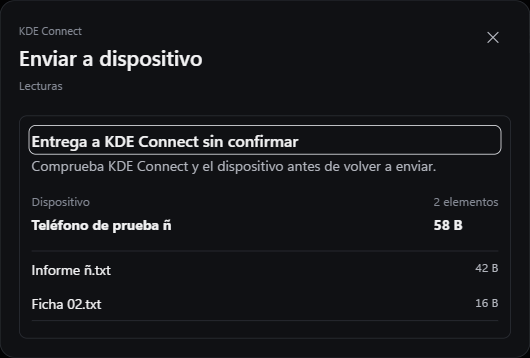
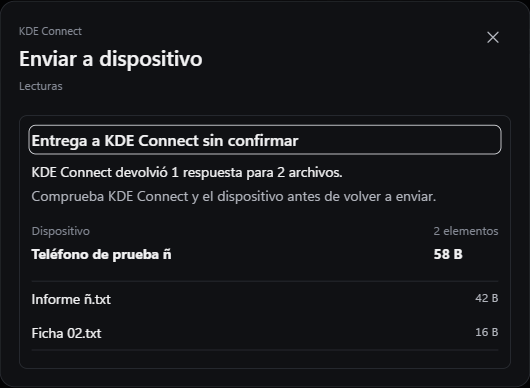
Explain KDE Connect handoff results

diff --git a/src/device-share-ui.ts b/src/device-share-ui.ts
@@ -8,7 +8,8 @@ type Payload = { kind: "files"; ids: string[] } | { kind: "link"; url: string } 
 interface Device { id: string; name: string }
 interface Status { state: "ready" | "missing" | "offline" | "incompatible" | "unsupported"; devices: Device[]; share: boolean; shareText: boolean }
 interface Preview { token: string; device: Device; entries: { name: string; bytes: number }[]; total: number }
-type Receipt = "handedOff" | "unconfirmed";
+type UnconfirmedReason = { kind: "cliError" } | { kind: "noReply" } | { kind: "fileCount"; replies: number };
+type Receipt = { state: "handedOff" } | { state: "unconfirmed"; reason: UnconfirmedReason };
 type Review = Omit<Preview, "token">;
 interface Hooks {
   command<T>(name: string, args?: Record<string, unknown>): Promise<T>;
@@ -71,6 +72,23 @@ export function createDeviceShare(hooks: Hooks) {
     if (count) count.textContent = textCount(size);
   }
 
+  function receiptEvidence(receipt: Receipt, files: number): string {
+    if (receipt.state === "handedOff") return "";
+    switch (receipt.reason.kind) {
+      case "cliError":
+        return t("KDE Connect devolvió un error o un diagnóstico durante la entrega.", "KDE Connect returned an error or diagnostic during handoff.");
+      case "noReply":
+        return t("La respuesta de KDE Connect quedó vacía o no se pudo leer.", "The KDE Connect response was empty or unreadable.");
+      case "fileCount": {
+        const { replies } = receipt.reason;
+        return t(
+          `KDE Connect devolvió ${replies} ${replies === 1 ? "respuesta" : "respuestas"} para ${files} ${files === 1 ? "archivo" : "archivos"}.`,
+          `KDE Connect returned ${replies} ${replies === 1 ? "response" : "responses"} for ${files} ${files === 1 ? "file" : "files"}.`,
+        );
+      }
+    }
+  }
+
   function draw() {
     if (!dialog) return;
     const previous = document.activeElement instanceof HTMLElement ? document.activeElement.id : "";
@@ -92,10 +110,12 @@ export function createDeviceShare(hooks: Hooks) {
       : status?.state === "unsupported" ? t("La integración de nabnab está disponible en Windows.", "Nabnab’s integration is available on Windows.")
       : !devices.length && status ? t("Empareja un dispositivo desde KDE Connect y comprueba que esté accesible.", "Pair a device in KDE Connect and make sure it is reachable.") : "";
     const button = (id: string, caption: string, style = "quiet", disabled = false) => `<button type="button" id="share-${id}" class="button ${style}" data-share-action="${id}" ${disabled ? "disabled" : ""}>${h(caption)}</button>`;
+    const evidence = result ? receiptEvidence(result.receipt, result.review.entries.length) : "";
     dialog.innerHTML = `<header class="device-share-head"><div><p class="eyebrow">KDE Connect</p><h2 id="device-share-title">${t("Enviar a dispositivo", "Send to device")}</h2>${label ? `<p class="field-note">${h(label)}</p>` : ""}</div>
       <button type="button" id="share-close" class="icon-button" data-share-action="close" aria-label="${t("Cerrar", "Close")}" ${busy === "send" ? "disabled" : ""}>${icon("close")}</button></header>
-      ${result ? `<section class="device-share-result" aria-labelledby="share-result-status"><h3 id="share-result-status" tabindex="-1" aria-describedby="share-result-note">${result.receipt === "handedOff" ? t("Entregado a KDE Connect", "Handed off to KDE Connect") : t("Entrega a KDE Connect sin confirmar", "KDE Connect handoff unconfirmed")}</h3>
-        <p id="share-result-note">${result.receipt === "handedOff" ? t("Consulta KDE Connect para seguir la transferencia y confirmar la recepción.", "Check KDE Connect for transfer progress and receipt.") : t("Comprueba KDE Connect y el dispositivo antes de volver a enviar.", "Check KDE Connect and the device before sending again.")}</p>
+      ${result ? `<section class="device-share-result" aria-labelledby="share-result-status"><h3 id="share-result-status" tabindex="-1" aria-describedby="${evidence ? "share-result-evidence " : ""}share-result-note">${result.receipt.state === "handedOff" ? t("Entregado a KDE Connect", "Handed off to KDE Connect") : t("Entrega a KDE Connect sin confirmar", "KDE Connect handoff unconfirmed")}</h3>
+        ${evidence ? `<p id="share-result-evidence">${h(evidence)}</p>` : ""}
+        <p id="share-result-note">${result.receipt.state === "handedOff" ? t("Consulta KDE Connect para seguir la transferencia y confirmar la recepción.", "Check KDE Connect for transfer progress and receipt.") : t("Comprueba KDE Connect y el dispositivo antes de volver a enviar.", "Check KDE Connect and the device before sending again.")}</p>
         <div class="device-share-review">${reviewContent(result.review, mode === "files")}</div></section>` : preview ? `<section class="device-share-review">
         ${reviewContent(preview, true)}
         <div class="device-share-footer">${button("back", t("Editar envío", "Edit share"), "quiet", Boolean(busy))}${button("send", busy ? t("Entregando a KDE Connect…", "Handing off to KDE Connect…") : t("Confirmar envío", "Confirm share"), "primary", Boolean(busy))}</div></section>` : `<section class="device-share-fields">

diff --git a/src/device-share.css b/src/device-share.css
@@ -29,6 +29,7 @@
 .device-share-result h3 { margin: 0; border-radius: 4px; font-size: 16px; }
 .device-share-result h3:focus-visible { outline-offset: 3px; }
 .device-share-result p { color: var(--muted); }
+.device-share-result #share-result-evidence { margin-top: 9px; color: var(--text); }
 .device-share-result .device-share-review { margin-top: 14px; }
 .device-share-error { padding: 8px; }
 .collection-list .collection-row > .media-open { flex: 1 1 190px; width: auto; min-width: 0; }

diff --git a/src-tauri/src/device_share.rs b/src-tauri/src/device_share.rs
@@ -541,10 +541,18 @@ pub async fn device_share_prepare(
 }
 
 #[derive(Serialize)]
-#[serde(rename_all = "camelCase")]
+#[serde(tag = "kind", rename_all = "camelCase")]
+pub enum UnconfirmedReason {
+    CliError,
+    NoReply,
+    FileCount { replies: usize },
+}
+
+#[derive(Serialize)]
+#[serde(tag = "state", rename_all = "camelCase")]
 pub enum Receipt {
     HandedOff,
-    Unconfirmed,
+    Unconfirmed { reason: UnconfirmedReason },
 }
 
 #[tauri::command]
@@ -586,23 +594,21 @@ pub async fn device_share_send(
         }
     }
     let file_count = plan.files.len();
-    match run(&plan.cli.path, plan.args).await {
-        Ok(reply)
-            if reply.success
-                && reply.stderr.trim().is_empty()
-                && !reply.stdout.trim().is_empty()
-                && (file_count == 0
-                    || reply
-                        .stdout
-                        .lines()
-                        .filter(|line| !line.trim().is_empty())
-                        .count()
-                        == file_count) =>
-        {
-            Ok(Receipt::HandedOff)
+    let reason = match run(&plan.cli.path, plan.args).await {
+        Err(_) => UnconfirmedReason::NoReply,
+        Ok(reply) if !reply.success || !reply.stderr.trim().is_empty() => UnconfirmedReason::CliError,
+        Ok(reply) => {
+            let replies = reply.stdout.lines().filter(|line| !line.trim().is_empty()).count();
+            if replies == 0 {
+                UnconfirmedReason::NoReply
+            } else if file_count != 0 && replies != file_count {
+                UnconfirmedReason::FileCount { replies }
+            } else {
+                return Ok(Receipt::HandedOff);
+            }
         }
-        _ => Ok(Receipt::Unconfirmed),
-    }
+    };
+    Ok(Receipt::Unconfirmed { reason })
 }
 
 #[tauri::command]

diff --git a/tests/kdeconnect-cli-fixture.rs b/tests/kdeconnect-cli-fixture.rs
@@ -26,6 +26,9 @@ fn main() {
             .open(root.join("cli-arguments.jsonl"))
             .unwrap();
         writeln!(log, "{args:?}").unwrap();
+        if root.join("cli-empty-reply").is_file() {
+            return;
+        }
         if root.join("cli-warning").is_file() {
             eprintln!("D-Bus share interface unavailable");
         }

diff --git a/docs/DEVICE-SHARE.md b/docs/DEVICE-SHARE.md
@@ -20,7 +20,7 @@ En el lector de PDF y EPUB, abre **Texto de esta página**, selecciona un fragme
 
 ![Revisión del fragmento seleccionado de un EPUB sintético en Windows](device-share-document-excerpt.png)
 
-**Entregado a KDE Connect** indica que la CLI respondió sin errores al pasarle la solicitud. Para archivos, nabnab espera una línea de respuesta por archivo. Consulta KDE Connect para ver el progreso o confirmar la recepción. Si la CLI devuelve una respuesta parcial, emite un diagnóstico o tarda demasiado, nabnab muestra **Entrega a KDE Connect sin confirmar**. El resultado conserva el destino y los archivos revisados. Comprueba ambos dispositivos antes de iniciar otra revisión. [Comandos de la CLI de KDE Connect 26.08.2](https://github.com/KDE/kdeconnect-kde/blob/v26.08.2/cli/kdeconnect-cli.cpp)
+**Entregado a KDE Connect** indica que la CLI respondió sin errores al pasarle la solicitud. Consulta KDE Connect para ver el progreso o confirmar la recepción. **Entrega a KDE Connect sin confirmar** distingue un error de la CLI, una respuesta vacía o ilegible y un número de respuestas distinto del número de archivos revisados. El recuento corresponde a la solicitud entera. El resultado conserva el destino y los archivos revisados para que puedas comprobarlos en KDE Connect antes de iniciar otro envío. [Comandos de la CLI de KDE Connect 26.08.2](https://github.com/KDE/kdeconnect-kde/blob/v26.08.2/cli/kdeconnect-cli.cpp)
 
 ![Resultado de un envío de dos archivos con una respuesta parcial de la CLI de prueba](device-share-unconfirmed.png)
 
